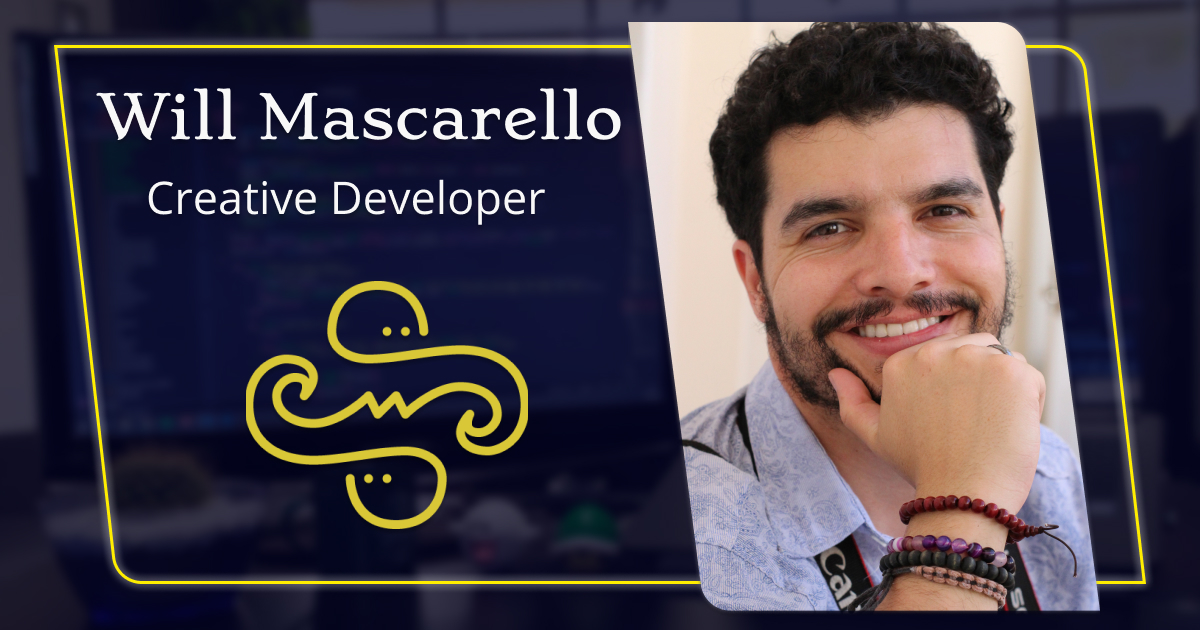
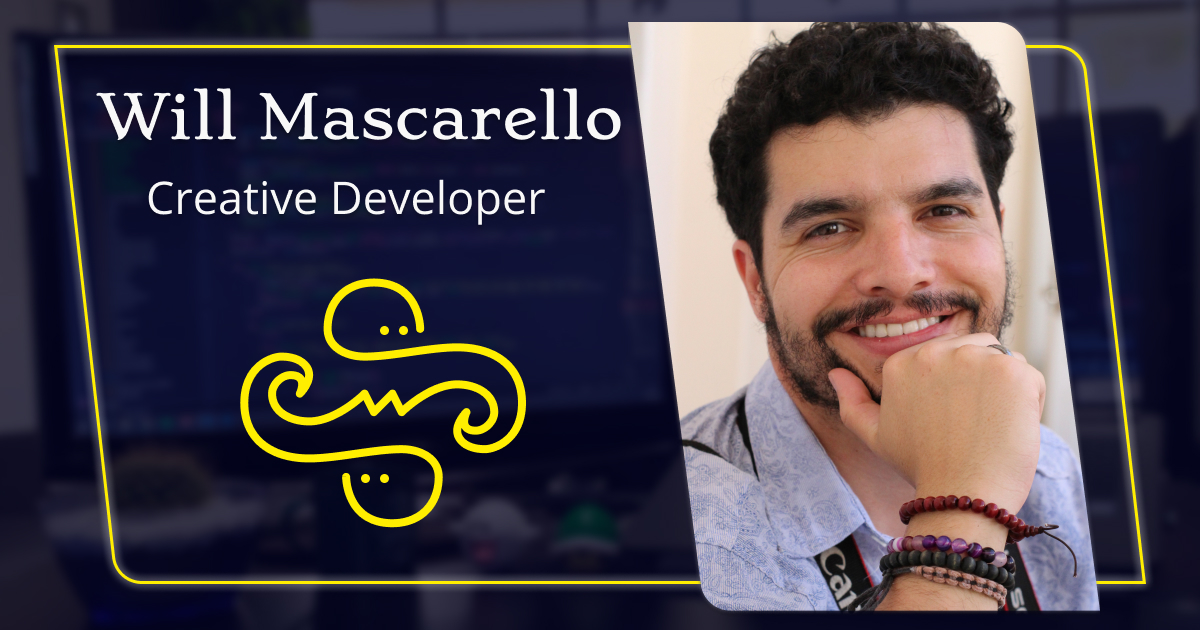
Ajustado imagens

Changed region(s): [[0.185, 0.4222, 0.4625, 0.8444]]

diff --git a/src/components/Menu.tsx b/src/components/Menu.tsx
@@ -10,7 +10,7 @@ export function Menu() {
 
     return (
         <div className={styles.menu}>
-            <a href="#" ><img width="64px" height="55px" className={styles.logo} src="logo.png" alt="Will Mascarello Logo" /></a>
+            <a href="#" ><img width="64px" height="55px" className={styles.logo} src="logo.svg" alt="Will Mascarello Logo" /></a>
 
 
             {/* <a href="" target="blank" className={styles.blog}><IconBlog /></a> // precisa instalar o webpack SVGR */}

diff --git a/src/pages/index.tsx b/src/pages/index.tsx
@@ -20,7 +20,7 @@ export default function Home(props) {
 
   let title = 'Will Mascarello | Creative Developer';
   let description = 'Olá, sou o William Mascarello. Um desenvolvedor criativo, criando conteúdos e experiências digitais! Conheça um pouco sobre mim :)';
-  let img = "https://willmascarello.com/og_image_min.jpg";
+  let img = "https://willmascarello.com/og_image.jpg";
 
   
   useEffect(() => {
